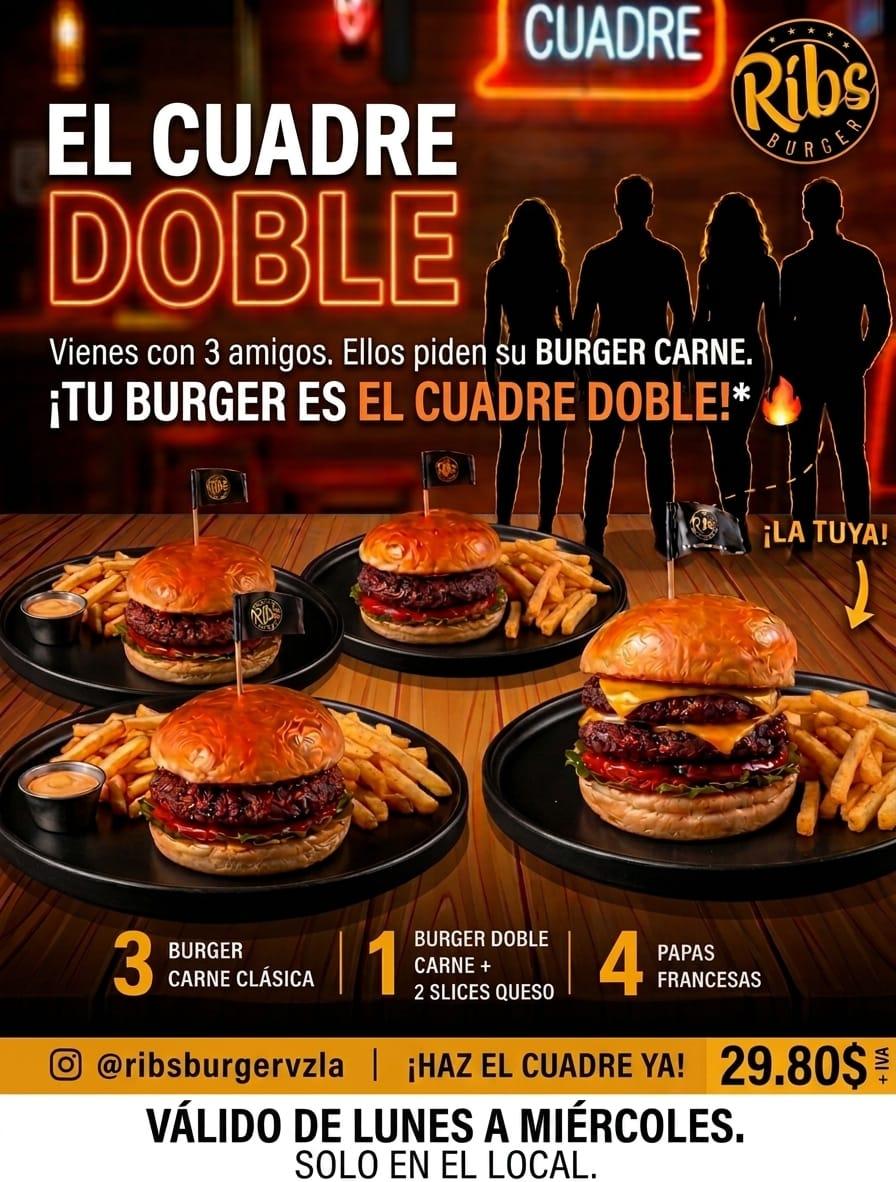
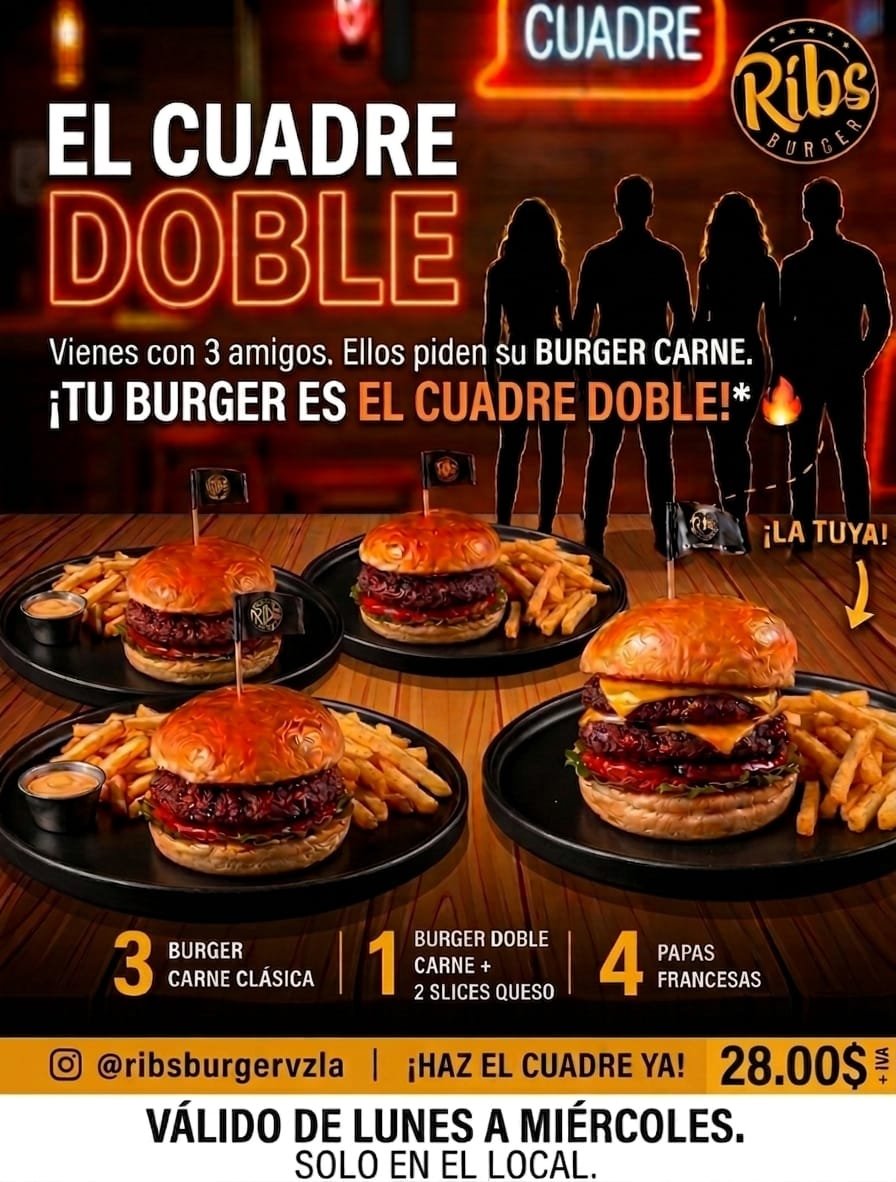
update 05-5-2026

diff --git a/src/page/promociones.py b/src/page/promociones.py
@@ -11,7 +11,7 @@ def promociones_page(page, cambiar_pagina):
             "img": "img/promos/elcuadredoble.jpeg",
             "title": "El cuadre doble",
             "description": "",
-            "price": "Precio 34.56"
+            "price": "Precio 32.48"
         },
         {
             "img": "img/promos/thegoldentable.jpeg",